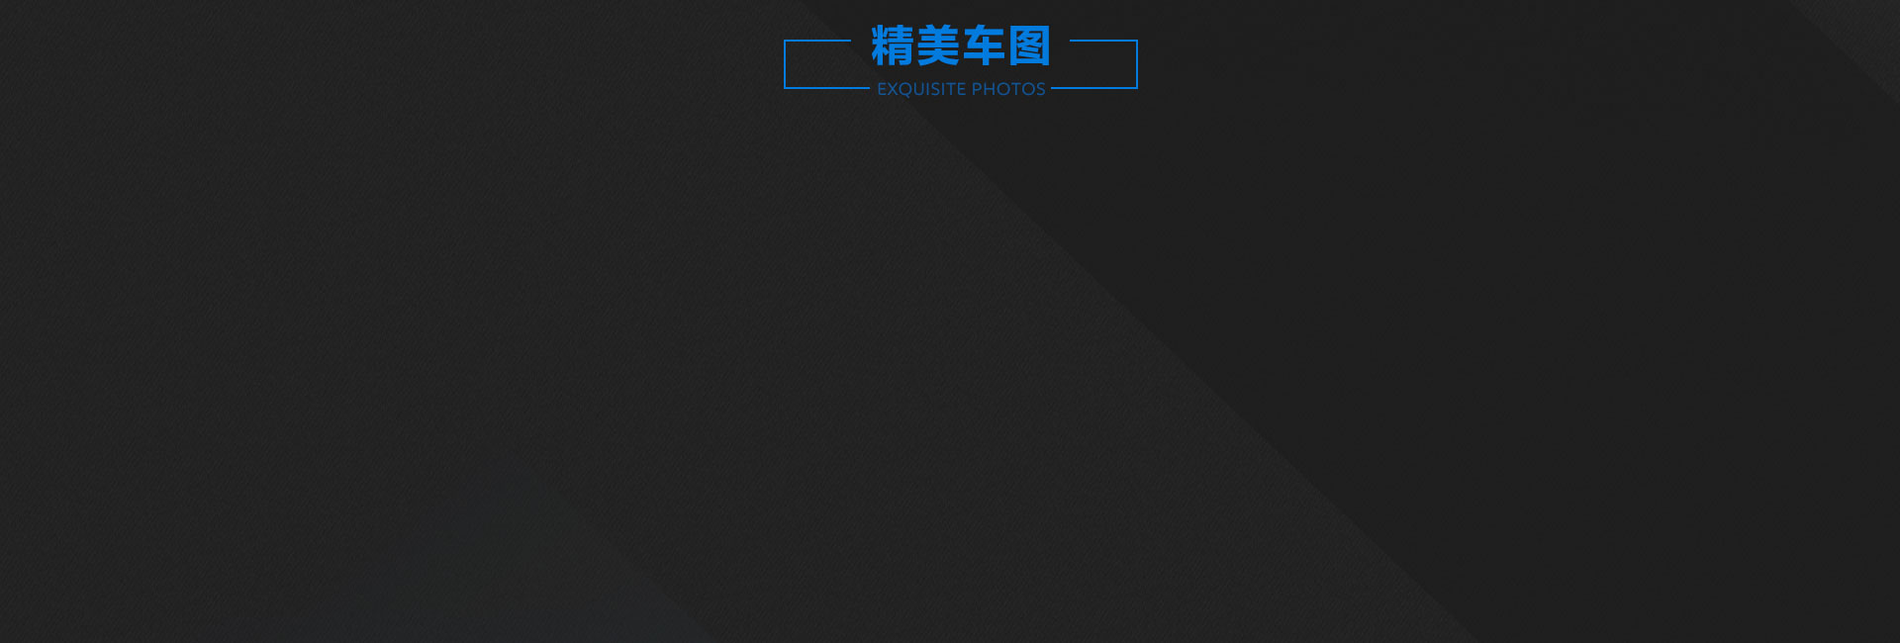
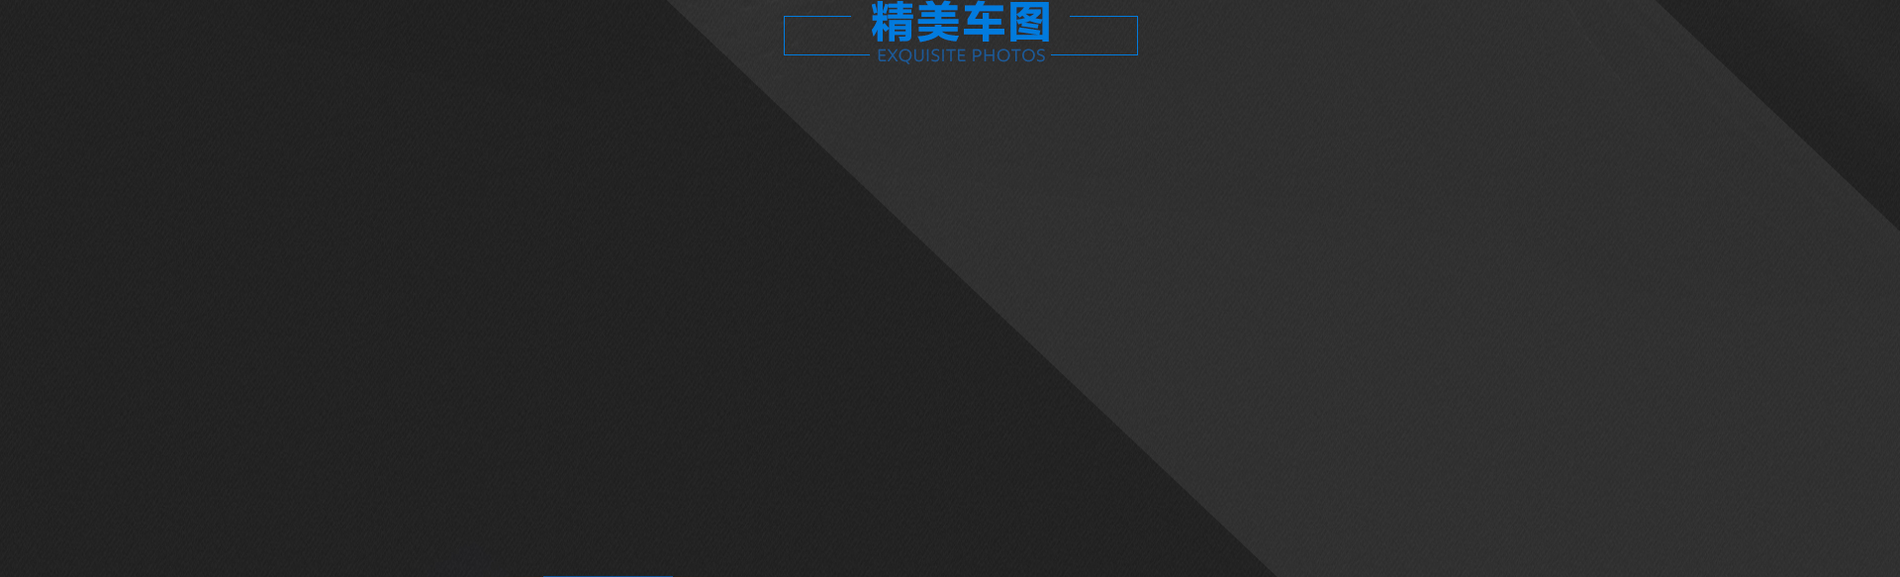
更新

Changed region(s): [[0.4062, 0.0, 0.5938, 0.1544], [0.2812, 0.988, 0.3438, 1.0]]

diff --git a/peugeot/dongb_pc.html b/peugeot/dongb_pc.html
@@ -25,7 +25,7 @@
         <div class="boxTwo">
             <div class="box01">
             <!-- 了解四重礼详情 -->
-            <div class="tk01"></div>
+            <!-- <div class="tk01"></div> -->
             <!-- 了解四重礼详情 -end-->
             <!-- 活动报名 -->
             <div class="login">
@@ -47,8 +47,8 @@
             <!-- 活动报名 -end-->
             <!-- 售后及获奖说明-中奖名单 -->
             <div class="state">
-                <h2 class="btns"><img src="images/btn01.png"/></h2>
-                <h2 style="cursor:auto;" ><img src="images/btn03.png"/></h2>
+                <h2 class="btns"><!-- <img src="images/btn01.png"/> --></h2>
+                <h2 class="btnss"><!-- <img src="images/btn03.png"/> --></h2>
             </div>
             <!-- 售后及获奖说明-中奖名单 -->
             </div>
@@ -73,7 +73,7 @@
                 <a target="_blank" href="http://news.qichedaquan.com/news/danchepingce/20170407/148294.html">
                    <img class="dbs" src="images/dbss.jpg"/>
                    <div class="bdss">
-                       <h2>玩另类绝对是把好手 <br/>测东标4008</h2>
+                       <h2>玩转时尚 忠于实用 </h2><h6>测东风标致4008</h6>
                        <p>&emsp;&emsp;凡是和法国沾边的东西，最大的特点是什么？就是太有特点了！就像最近很火的法国时尚品牌Balenciaga，玩另类绝对是把好手，一个“编织袋”红遍大江南北，各路大小明星都抢着背，也是醉了。法国车当然也不例外，给人留下的第一印象大多是时尚、另类、夸张和大胆的设计，那么问题来了...</p>
                    </div>
                    <img class="dbss" src="images/tm.png"/>
@@ -95,18 +95,20 @@
             <div id="slideBox" class="slideBox slideBoxs">
                 <div class="bd">
                     <ul>
-                        <li><img src="images/1.jpg"><p><font>2730mm超长轴距</font><b>领先的2730mm超长轴距，实现宽绰明亮的驾乘空间。同时搭载1.01m2超大面积、0.48m2最大开启距离的电动可开启全景天窗，海阔天空“大”有可为。</b><span>1/9</span></p></li>
-                        <li><img src="images/2.jpg"><p><font>电动可开启全景天窗</font><b>1.01m2超大面积、0.48m最大开启距离，带来开阔视野与顺畅通风。更可一键控制玻璃天窗与卷阳帘联动式开启，海阔天空先睹为快。</b><span>2/9</span></p></li>
+                        <li><img src="images/1.jpg"><p><font>2730mm超长轴距</font><b>领先的2730mm超长轴距，实现宽绰明亮的驾乘空间。同时搭载1.01m2超大面积、0.48m2最大开启距离的电动可开启全景天窗，海阔天空“大”有可为。</b></p></li>
+                        <li><img src="images/2.jpg"><p><font>电动可开启全景天窗</font><b>1.01m2超大面积、0.48m最大开启距离，带来开阔视野与顺畅通风。更可一键控制玻璃天窗与卷阳帘联动式开启，海阔天空先睹为快。</b></p></li>
                         <li><img src="images/3.jpg"><p><font>镀铬双排气管、悬浮式黑钻车顶、黑钻式横贯尾部</font><b>镀铬双排气管：造型新颖的双排气管设计。悬浮式黑钻车顶：隐形C柱形成的浮感车顶设计，营造360°环绕开阔的视觉享受。
-黑钻式横贯尾部：钢琴漆材质的黑钻式横贯尾部，为动感的尾部造型再添浓墨一笔。</b><span>3/9</span></p></li>
-                        <li><img src="images/4.jpg"><p><font>第二代i-Cockpit唯我座舱</font><b>秉持超人体工程学设计理念，炼就臻工尊享座舱。</b><span>4/9</span></p></li>
-                        <li><img src="images/5.jpg"><p><font>车内空气过滤系统</font><b>驾乘健康，同样呵护备至。搭载多款高效空气过滤系统及车内香氛系统，告别空气中的粉尘、细菌、PM2.5等有害物质，更获享三款法国顶级原装香氛带来的感官享受，坐享一路舒适惬意。</b><span>5/9</span></p></li>
-                        <li><img src="images/6.jpg"><p><font>后排座椅1/3-2/3可折叠</font><b>全系标配后排1/3、2/3座椅，可按比例放倒，灵活改变车内储物空间，全面包容所有行李尺寸。更有后备箱魔术手柄让空间扩容轻松至极。同时，车内多种人性化储物空间设计，一切收纳便利从容。</b><span>6/9</span></p></li>
-                        <li> <img src="images/7.jpg"><p><font>“智”敬未来</font><b>主动探测同一方向行驶的前方车辆，根据前车速度自动调节车速、自动跟停，更可主动选择跟车距离，时刻保持安全前行。</b><span>7/9</span></p> </li>
-                        <li> <img src="images/8.jpg"><p><font>自动泊车辅助（平行+垂直）</font><b>前后左右12个超声波传感器自动探测可用驻车空间并控制转向，实现垂直泊车、平行泊车完美入位。更有自动驾驶离功能，全方位解决停车烦恼，以智能尽展其能。</b><span>8/9</span></p> </li>
-                        <li> <img src="images/9.jpg"><p><font>坡道缓降</font><b>HDC坡道缓降可在陡坡路况下完美地控制车辆，配合Grip Control多路况适应系统，确保车辆无忧于行。</b><span>9/9</span></p> </li>
+黑钻式横贯尾部：钢琴漆材质的黑钻式横贯尾部，为动感的尾部造型再添浓墨一笔。</b></p></li>
+                        <li><img src="images/4.jpg"><p><font>第二代i-Cockpit唯我座舱</font><b>秉持超人体工程学设计理念，炼就臻工尊享座舱。</b></p></li>
+                        <li><img src="images/5.jpg"><p><font>车内空气过滤系统</font><b>驾乘健康，同样呵护备至。搭载多款高效空气过滤系统及车内香氛系统，告别空气中的粉尘、细菌、PM2.5等有害物质，更获享三款法国顶级原装香氛带来的感官享受，坐享一路舒适惬意。</b></p></li>
+                        <li><img src="images/6.jpg"><p><font>后排座椅1/3-2/3可折叠</font><b>全系标配后排1/3、2/3座椅，可按比例放倒，灵活改变车内储物空间，全面包容所有行李尺寸。更有后备箱魔术手柄让空间扩容轻松至极。同时，车内多种人性化储物空间设计，一切收纳便利从容。</b></p></li>
+                        <li> <img src="images/7.jpg"><p><font>“智”敬未来</font><b>主动探测同一方向行驶的前方车辆，根据前车速度自动调节车速、自动跟停，更可主动选择跟车距离，时刻保持安全前行。</b></p> </li>
+                        <li> <img src="images/8.jpg"><p><font>自动泊车辅助（平行+垂直）</font><b>前后左右12个超声波传感器自动探测可用驻车空间并控制转向，实现垂直泊车、平行泊车完美入位。更有自动驾驶离功能，全方位解决停车烦恼，以智能尽展其能。</b></p> </li>
+                        <li> <img src="images/9.jpg"><p><font>坡道缓降</font><b>HDC坡道缓降可在陡坡路况下完美地控制车辆，配合Grip Control多路况适应系统，确保车辆无忧于行。</b></p> </li>
                     </ul>
                 </div>
+                <a class="prev" href="javascript:void(0)"><img src="images/left02.png"/></a>
+                <a class="next" href="javascript:void(0)"><img src="images/right02.png"/></a>
             </div>
         </div>
         <!-- 3008 -->
@@ -114,15 +116,17 @@
             <div id="slideBox" class="slideBox slideBoxss">
                 <div class="bd">
                     <ul>
-                        <li><img src="images/1.1.jpg"><p><font>点阵式进气格栅</font><b>放射状的点阵式设计，如激起的水幕，如瞬间迸发的激情，动感刹那在此刻定格，逐乐之心尽情释放。</b><span>1/6</span></p></li>
-                        <li><img src="images/2.1.jpg"><p><font>狮爪式LED尾灯</font><b>尾灯以狮爪抓痕为灵感，霸气十足，更富冲击力，动感流光一骑绝尘。</b><span>2/6</span></p></li>
-                        <li><img src="images/3.1.jpg"><p><font>栗棕运动内饰</font><b>新增栗棕运动内饰，拥抱你逐乐不停的心。全员真皮座椅，以面面俱到的舒适让运动乐趣一路“坐”享。</b><span>3/6</span></p></li>
+                        <li><img src="images/1.1.jpg"><p><font>点阵式进气格栅</font><b>放射状的点阵式设计，如激起的水幕，如瞬间迸发的激情，动感刹那在此刻定格，逐乐之心尽情释放。</b><!-- <span>1/6</span> --></p></li>
+                        <li><img src="images/2.1.jpg"><p><font>狮爪式LED尾灯</font><b>尾灯以狮爪抓痕为灵感，霸气十足，更富冲击力，动感流光一骑绝尘。</b><!-- <span>2/6</span> --></p></li>
+                        <li><img src="images/3.1.jpg"><p><font>栗棕运动内饰</font><b>新增栗棕运动内饰，拥抱你逐乐不停的心。全员真皮座椅，以面面俱到的舒适让运动乐趣一路“坐”享。</b><!-- <span>3/6</span> --></p></li>
                         <li><img src="images/4.1.jpg"><p><font>战斗机式环抱座舱、多功能真皮方向盘</font><b>战斗机式环抱座舱：汲取幻影战斗机座舱设计灵感而生，让每一次坐享都是与快乐的紧紧相拥。犹若驾驶战斗机般的新奇体验，是贴地驰骋的快感，更是一飞冲天的快意。
-多功能真皮方向盘：现在，“指”需拨动滚轮即可轻松控制音响、电话、行车电脑设置等功能，行车途中时刻将快乐牢牢掌控在自己手中。</b><span>4/6</span></p></li>
-                        <li><img src="images/5.1.jpg"><p><font>车道偏离警示</font><b>行车过程中系统摄像头自动识别纵向车道标线，并在车辆偏离路线时发出提示警报，天马行空的快乐一样尽兴到底。</b><span>5/6</span></p></li>
-                        <li><img src="images/6.1.jpg"><p><font>通过性</font><b>178mm离地间隙加之HHC上坡辅助系统，最大限度提高车辆在复杂路况下的通过性，逐乐郊野，通通pass在脚下。</b><span>6/6</span></p></li>
+多功能真皮方向盘：现在，“指”需拨动滚轮即可轻松控制音响、电话、行车电脑设置等功能，行车途中时刻将快乐牢牢掌控在自己手中。</b><!-- <span>4/6</span> --></p></li>
+                        <li><img src="images/5.1.jpg"><p><font>车道偏离警示</font><b>行车过程中系统摄像头自动识别纵向车道标线，并在车辆偏离路线时发出提示警报，天马行空的快乐一样尽兴到底。</b><!-- <span>5/6</span> --></p></li>
+                        <li><img src="images/6.1.jpg"><p><font>通过性</font><b>178mm离地间隙加之HHC上坡辅助系统，最大限度提高车辆在复杂路况下的通过性，逐乐郊野，通通pass在脚下。</b><!-- <span>6/6</span> --></p></li>
                     </ul>
                 </div>
+                <a class="prev" href="javascript:void(0)"><img src="images/left02.png"/></a>
+                <a class="next" href="javascript:void(0)"><img src="images/right02.png"/></a>
             </div>
         </div>
         <!-- 2008 -->
@@ -130,21 +134,23 @@
             <div id="slideBox" class="slideBox slideBoxsss">
                 <div class="bd">
                     <ul>
-                        <li><img src="images/1.1.1.jpg"><p><font>车顶行李架</font><b>让整车造型更酷， 更能搭配各种实用套件， 出游时派上大用场！</b><span>1/12</span></p></li>
-                        <li><img src="images/2.1.1.jpg"><p><font>LED日间行车灯+智能大灯</font><b>年轻，就“耀”光芒四射！ 仿生设计的LED狮眼智能大灯与日间行车灯， 具备感光控制系统，点睛之美，魅力独具！</b><span>2/12</span></p></li>
-                        <li><img src="images/3.1.1.jpg"><p><font>全景天幕玻璃顶</font><b>没有全景天幕玻璃顶的视野， 怎算真正拥有“视”界？车顶一体化玻璃设计， 1.3㎡开阔面积，视野不封顶，领略天外有天！ 完美采光放肆身心，风光尽揽，无须动身就已动心！</b><span>3/12</span></p></li>
+                        <li><img src="images/1.1.1.jpg"><p><font>车顶行李架</font><b>让整车造型更酷， 更能搭配各种实用套件， 出游时派上大用场！</b><!-- <span>1/12</span> --></p></li>
+                        <li><img src="images/2.1.1.jpg"><p><font>LED日间行车灯+智能大灯</font><b>年轻，就“耀”光芒四射！ 仿生设计的LED狮眼智能大灯与日间行车灯， 具备感光控制系统，点睛之美，魅力独具！</b><!-- <span>2/12</span> --></p></li>
+                        <li><img src="images/3.1.1.jpg"><p><font>全景天幕玻璃顶</font><b>没有全景天幕玻璃顶的视野， 怎算真正拥有“视”界？车顶一体化玻璃设计， 1.3㎡开阔面积，视野不封顶，领略天外有天！ 完美采光放肆身心，风光尽揽，无须动身就已动心！</b><!-- <span>3/12</span> --></p></li>
                         <li><img src="images/4.1.1.jpg"><p><font>灵动多功能方向盘、 魔幻光影高位仪表、 推进器式飞航手刹</font><b>灵动多功能方向盘：灵动多功能真皮方向盘，配合高位仪表，车况、路况尽收眼底，更以安全、精准操作，将“速度与激情”一玩到底！
-</b><span>4/12</span></p></li>
-                        <li><img src="images/5.1.1.jpg"><p><font>免钥匙进入和一键启动系统</font><b>自动感应开关门，一键完成车辆启停，欢迎来到智能未来！</b><span>5/12</span></p></li>
-                        <li><img src="images/6.1.1.jpg"><p><font>灵变车内空间设计</font><b>灵变后排座椅设计，2/3-1/3折叠单手搞定，便于从行李箱中取放物品，更极大扩充行李箱空间，再多先锋装备一车打尽。</b><span>6/12</span></p></li>
-                        <li><img src="images/7.1.1.jpg"><p><font>1.2THP涡轮增压直喷发动机</font><b>谁说小T不能大作？1.2THP涡轮增压直喷发动机，两年蝉联“国际最佳发动机”大奖。动力绵延澎湃，任你纵情凌驾；5.3L/100km超低油耗，放纵肆意玩心。更有铝合金轻量化设计，车身变轻，玩得更兴。</b><span>7/12</span></p></li>
-                        <li><img src="images/8.1.1.jpg"><p><font>第三代6速手自一体变速箱</font><b>Tiptronic手自一体变速箱 大玩家岂能只有一种“游戏模式”？ 经过全新调校，特有运动、雪地两种模式， 更内置智能逻辑控制计算器，敏锐换挡 平顺切换，灵活应对你的百变出动！</b><span>8/12</span></p></li>
-                        <li><img src="images/9.1.1.jpg"><p><font>定速巡航+超速控制器</font><b>随手设定，即享全程等速或不超过所定时速行驶，速度有“度”，玩乐没有度！</b><span>9/12</span></p></li>
-                        <li><img src="images/10.1.1.jpg"><p><font>五星安全认证</font><b>凭借卓越的主动、被动安全性能荣获C-NCAP五星安全认证。安心，才能彻底释放你的玩心！</b><span>10/12</span></p></li>
-                        <li><img src="images/11.1.1.jpg"><p><font>6安全气囊</font><b>前排正面双安全气囊+前排侧安全气囊+前后贯穿式侧气帘，6安全气囊，全面保护每位乘员安全！</b><span>11/12</span></p></li>
-                        <li><img src="images/12.1.1.jpg"><p><font>Grip Control多路况适应系统</font><b>身为都市大玩家，快乐版图当然不设限！Grip Control多路况适应系统激发你的玩心，拓展多模式的驾驶体验，无论雪地、泥泞、沙地都能轻松征服，再多坎坷道路，照样轻车熟路！</b><span>12/12</span></p></li>
+</b><!-- <span>4/12</span> --></p></li>
+                        <li><img src="images/5.1.1.jpg"><p><font>免钥匙进入和一键启动系统</font><b>自动感应开关门，一键完成车辆启停，欢迎来到智能未来！</b><!-- <span>5/12</span> --></p></li>
+                        <li><img src="images/6.1.1.jpg"><p><font>灵变车内空间设计</font><b>灵变后排座椅设计，2/3-1/3折叠单手搞定，便于从行李箱中取放物品，更极大扩充行李箱空间，再多先锋装备一车打尽。</b><!-- <span>6/12</span> --></p></li>
+                        <li><img src="images/7.1.1.jpg"><p><font>1.2THP涡轮增压直喷发动机</font><b>谁说小T不能大作？1.2THP涡轮增压直喷发动机，两年蝉联“国际最佳发动机”大奖。动力绵延澎湃，任你纵情凌驾；5.3L/100km超低油耗，放纵肆意玩心。更有铝合金轻量化设计，车身变轻，玩得更兴。</b><!-- <span>7/12</span> --></p></li>
+                        <li><img src="images/8.1.1.jpg"><p><font>第三代6速手自一体变速箱</font><b>Tiptronic手自一体变速箱 大玩家岂能只有一种“游戏模式”？ 经过全新调校，特有运动、雪地两种模式， 更内置智能逻辑控制计算器，敏锐换挡 平顺切换，灵活应对你的百变出动！</b><!-- <span>8/12</span> --></p></li>
+                        <li><img src="images/9.1.1.jpg"><p><font>定速巡航+超速控制器</font><b>随手设定，即享全程等速或不超过所定时速行驶，速度有“度”，玩乐没有度！</b><!-- <span>9/12</span> --></p></li>
+                        <li><img src="images/10.1.1.jpg"><p><font>五星安全认证</font><b>凭借卓越的主动、被动安全性能荣获C-NCAP五星安全认证。安心，才能彻底释放你的玩心！</b><!-- <span>10/12</span> --></p></li>
+                        <li><img src="images/11.1.1.jpg"><p><font>6安全气囊</font><b>前排正面双安全气囊+前排侧安全气囊+前后贯穿式侧气帘，6安全气囊，全面保护每位乘员安全！</b><!-- <span>11/12</span> --></p></li>
+                        <li><img src="images/12.1.1.jpg"><p><font>Grip Control多路况适应系统</font><b>身为都市大玩家，快乐版图当然不设限！Grip Control多路况适应系统激发你的玩心，拓展多模式的驾驶体验，无论雪地、泥泞、沙地都能轻松征服，再多坎坷道路，照样轻车熟路！</b><!-- <span>12/12</span> --></p></li>
                     </ul>
                 </div>
+                <a class="prev" href="javascript:void(0)"><img src="images/left02.png"/></a>
+                <a class="next" href="javascript:void(0)"><img src="images/right02.png"/></a>
             </div>
         </div>
     </div>
@@ -220,10 +226,10 @@
     </div>
     <!-- 精彩视频 -end-->
     <!-- 了解四重礼详情-弹框 -->
-    <div class="bgs">
-        <div class="bgss"></div><!-- 黑色透明背景 -->
-        <div class="scl"><img src="images/tk02.jpg"/><span class="close"></span></div><!-- 弹框内容 -->
-    </div>   
+    <!-- <div class="bgs">
+        <div class="bgss"></div>
+        <div class="scl"><img src="images/tk02.jpg"/><span class="close"></span></div>
+    </div> -->   
     <!-- 了解四重礼详情-弹框-end -->
     <!-- 售后及获奖说明-弹框-->
     <div class="bgs_s">
@@ -291,6 +297,17 @@
     show_related:false
     });
 </script>
+<!-- 4008 -->
+<script type="text/javascript">
+    player = new YKU.Player('youkuplayers',{
+    styleid: '0',
+    client_id: '8dea6b110e2bc49d',
+    vid: 'XMjY3NjQxODI1Mg==',
+    newPlayer: true,
+    show_related:false
+    });
+</script>
+<!-- 优酷视频-end -->
 <!-- 编辑文章轮播 -->
 <script type="text/javascript">
     var ary = location.href.split("&");
@@ -304,17 +321,6 @@
             mouseOverStop:ary[6],
             pnLoop:ary[7] });
 </script>
-<!-- 4008 -->
-<script type="text/javascript">
-    player = new YKU.Player('youkuplayers',{
-    styleid: '0',
-    client_id: '8dea6b110e2bc49d',
-    vid: 'XMjY3NjQxODI1Mg==',
-    newPlayer: true,
-    show_related:false
-    });
-</script>
-<!-- 优酷视频-end -->
 <script id="jsID" type="text/javascript">
          var ary = location.href.split("&");
         jQuery(".slideBox").slide( { 

diff --git a/peugeot/css/dobSty.css b/peugeot/css/dobSty.css
@@ -52,19 +52,19 @@ a:visited, a:link {color:#c1c1c1; text-decoration:none;}
 a:hover {color:#FFF; text-decoration:underline;}
 
 .box{/*background:url(../images/bg01.jpg) no-repeat center top;*/}
-.boxCont{height:1398px;}
-.boxOne{background:url(../images/bg01.1.jpg) no-repeat center top;height:544px;width:100%;float:left;}
-.boxTwo{background:url(../images/bg01.2.jpg) no-repeat center top;height:854px;width:100%;float:left;}
-.box01{width:1000px;overflow: hidden;margin:0 auto;height:854px;position:relative;}
-.box02{position:relative;background:url(../images/bg02.jpg) no-repeat center top; height:686px;width:100%;float:left;}
-.box03{background:url(../images/bg03.jpg) no-repeat center top; height:1590px;width:100%;float:left;}
-.box04{background:url(../images/bg04.jpg) no-repeat center top; height:650px;width:100%;float:left;}
-.box05{background:url(../images/bg05.jpg) no-repeat center top; height:839px;width:100%;float:left;}
+.boxCont{height:1375px;}
+.boxOne{background:url(../images/bg01.1.jpg) no-repeat center top;height:847px;width:100%;float:left;}
+.boxTwo{background:url(../images/bg01.2.jpg) no-repeat center top;height:528px;width:100%;float:left;}
+.box01{width:1000px;overflow: hidden;margin:0 auto;height:633px;position:relative;}
+.box02{position:relative;background:url(../images/bg02.jpg) no-repeat center top; height:624px;width:100%;float:left;}
+.box03{background:url(../images/bg03.jpg) no-repeat center top; height:1540px;width:100%;float:left;}
+.box04{background:url(../images/bg04.jpg) no-repeat center top; height:583px;width:100%;float:left;}
+.box05{background:url(../images/bg05.jpg) no-repeat center top; height:781px;width:100%;float:left;}
 .tk01{position: absolute;top:50px;right:427px;width:155px;height:20px;cursor: pointer}
 /*.dB{width:1000px;margin:0 auto;height:500px;padding-top:140px;}*/
 
 /*活动报名*/
-.login{position:absolute;right:0;top:355px;width:331px;height:296px; }
+.login{position:absolute;right:0;top:87px;width:331px;height:296px; }
 .login ul{float:left;}
 .login li{float:left; margin-bottom:14px;height:48px;}
 .login li input.name{font-size:16px;width:101px;height:48px;line-height:48px;color:#999999;padding-left:10px;}
@@ -77,13 +77,16 @@ a:hover {color:#FFF; text-decoration:underline;}
 .login p{color:#6c6c6d;}
 .login .btn{width:330px;cursor:pointer;line-height:50px; text-align:center;background: #017bde;font-size:22px;color:#fff;margin-top:15px;}
 .login .btn:hover{background:#0062c5;}
-.state{position:absolute;bottom:85px;left:144px;}
-.state h2{width:145px;float:left;margin-right:15px;cursor: pointer }
+.state{position:absolute;bottom:130px;left:37px;}
+.state h2{height:36px;float:left;/*margin-right:15px;*/cursor: pointer }
+.state h2.btns{background: url("../images/btn01.png") no-repeat;background-size:202px 36px;width:202px;height:36px;}
+.state h2.btnss{background: url("../images/btn02.png") no-repeat;background-size:205px 36px;width:202px;height:36px;}
+.state h2.btnss:hover{background: url("../images/btn03.png") no-repeat;background-size:205px 36px;width:202px;height:36px;}
 
 .img4008{width:1000px;margin:0 auto;overflow: hidden;}
  /* 本例子css */
-.slideBoxs{ width:1000px; height:420px;margin-top:138px; overflow:hidden; position:relative;  }
-.slideBoxss{margin-top:60px;}
+.slideBoxs{ width:1000px; height:420px;margin-top:110px; overflow:hidden; position:relative;  }
+.slideBoxss{margin-top:65px;}
 .slideBoxsss{margin-top:60px;}
 .slideBox .hd{ height:15px; overflow:hidden; position:absolute; right:5px; bottom:5px; z-index:1; }
 .slideBox .hd ul{ overflow:hidden; zoom:1; float:left;  }
@@ -94,13 +97,13 @@ a:hover {color:#FFF; text-decoration:underline;}
 /*.slideBox .hd span.on{color:#f00;}*/
 .slideBox .bd{ position:relative; height:100%; z-index:0;   }
 .slideBox .bd li{ zoom:1; vertical-align:middle; }
-.slideBox .bd li p{padding-left:20px;color:#fff;font-size:14px; position:absolute;bottom:0;height:60px;opacity: 0.8;background:#000;width:980px;}
+.slideBox .bd li p{padding-left:20px;color:#fff;font-size:14px; position:absolute;bottom:13px;height:60px;opacity: 0.8;background:#000;width:980px;}
 .slideBox .bd li p font{font-size:14px;float:left;width:900px;margin-top:5px;}
 .slideBox .bd li p b{float:left;width:900px;font-weight:normal;font-size:12px;}
 .slideBox .bd li p span{float:right;margin-right:20px;}
 .slideBox .bd img{ width:1000px; height:420px; display:block;  }
 
-.carImgs{width:1000px;margin:0 auto;height:430px;overflow: hidden;padding-top:166px;}
+.carImgs{width:1000px;margin:0 auto;height:430px;overflow: hidden;padding-top:100px;}
 .carImgs p{margin-left:255px;}
 .carImgs p span{cursor:pointer;float:left;margin:0 15px; text-align:center; border:1px solid #017bde;color:#017bde;font-weight:bold;font-size:20px;width:140px;height:35px;line-height:35px;font-style:oblique}
 .carImgs p span.cur{background:#ff8a00;color:#fff;border:none;height:37px;width:142px;line-height:37px;}
@@ -142,21 +145,23 @@ a:hover {color:#FFF; text-decoration:underline;}
 
 .jmCars{height:390px;overflow: hidden;width:1000px;float:left;}
 
-.video{width:1000px;height:425px;margin:0 auto;overflow: hidden;position:relative;}
-.video ul{z-index:999;position: absolute;top:168px;left:130px;width:114px;}
+.video{width:1000px;height:325px;margin:0 auto;overflow: hidden;position:relative;}
+.video ul{z-index:999;position: absolute;top:110px;left:130px;width:114px;}
 .video ul li{cursor:pointer;float:left;margin:5px 0px; text-align:center; border:1px solid #017bde;color:#017bde;font-weight:bold;font-size:20px;width:114px;line-height:30px;font-style:oblique}
 .video ul li.on{background:#ff8a00;color:#fff;border:none;height:32px;width:116px;line-height:32px;}
-.videoBox{position:absolute;top:100px;right:82px;width:576px;height:320px;}
+.videoBox{position:absolute;/*top:100px;*/right:82px;width:576px;height:320px;}
 .video video{width:100%;}
 
-.box02 .slideBox_s img.dbs {position:absolute;z-index: 20; width:632px;float:left;height:469px;margin-top:15px;margin-left:15px;}
-.box02 .slideBox_s .bdss{width:320px;height:300px;float:right;margin-right:15px;margin-top:140px;}
-.box02 .slideBox_s .bdss h2{font-size:24px;font-weight:normal;color:#132551;}
-.box02 .slideBox_s .bdss p{font-size:14px;font-weight:normal;color:#132551;margin-top:15px;}
+.box02 .slideBox_s img.dbs {position:absolute;z-index: 20; width:632px;float:left;height:469px;margin-top:13px;margin-left:15px;}
+.box02 .slideBox_s .bdss{width:310px;float:right;margin-right:15px;margin-top:115px;}
+
+.box02 .slideBox_s .bdss h2{font-size:32px;font-weight:normal;color:#353535;border-bottom:2px solid #353535;}
+.box02 .slideBox_s .bdss h6{font-size:24px;font-weight:normal;color:#353535;}
+.box02 .slideBox_s .bdss p{font-size:14px;font-weight:normal;color:#353535;margin-top:25px;}
 .box02 .slideBox_s h3{border:10px solid #7fb0e2;position:absolute;}
 .box02 .slideBox_s img.dbss{ width:426px; height:371px;position:absolute;top:66px;right:36px; display:none; }
 
-.slideBox_s{ width:1000px; background: #fff;height:496px;margin:0 auto;margin-top:115px; overflow:hidden; position:relative;  }
+.slideBox_s{background:url(../images/bj.jpg) no-repeat; width:1000px;/* background: #fff;*/height:495px;margin:0 auto;margin-top:88px; overflow:hidden; position:relative;  }
 /*.bds{width:1000px;overflow: hidden;background: #fff;height:496px;margin:0 auto;margin-top:115px;position: relative;}*/
 
 .slideBox_s .prev,
@@ -167,3 +172,14 @@ a:hover {color:#FFF; text-decoration:underline;}
 .slideBox_s .next:hover{ filter:alpha(opacity=20);opacity:0.2;  }
 .slideBox_s .prev img,
 .slideBox_s.next img{}
+
+.slideBoxss,.slideBoxsss{position: relative;height:420px;}
+.slideBox .prev,
+.slideBox .next{filter:alpha(opacity=80);opacity:0.8; width:40px;height:90px;display: block;background: #000}
+.slideBox .prev{position: absolute;top:171px;left:0px;}
+.slideBox .next{position: absolute;top:171px;right:0px;}
+.slideBox .prev:hover,
+.slideBox .next:hover{ filter:alpha(opacity=50);opacity:0.5;  }
+.slideBox .bd img{height:433px;}
+.slideBox .prev img,
+.slideBox .next img{margin-top:9px;margin-left:6px;}
